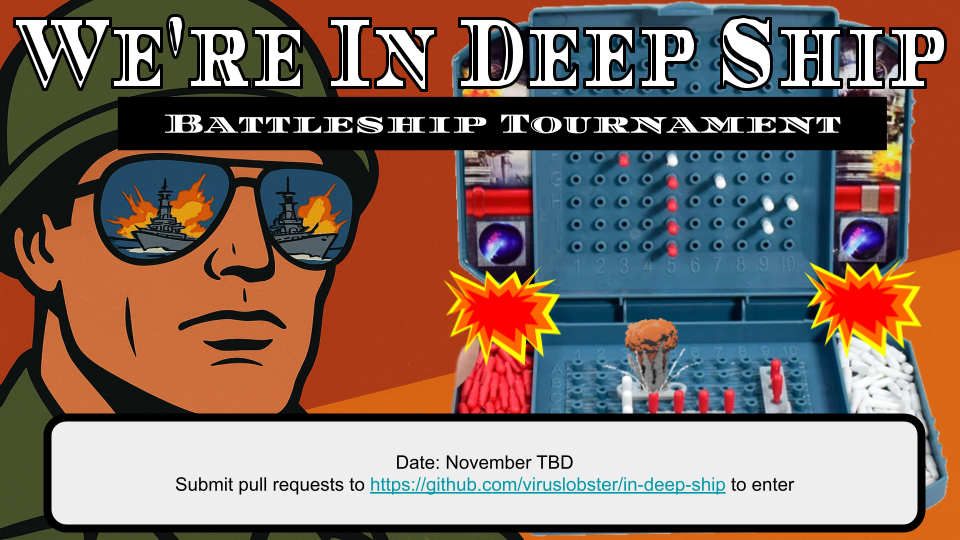
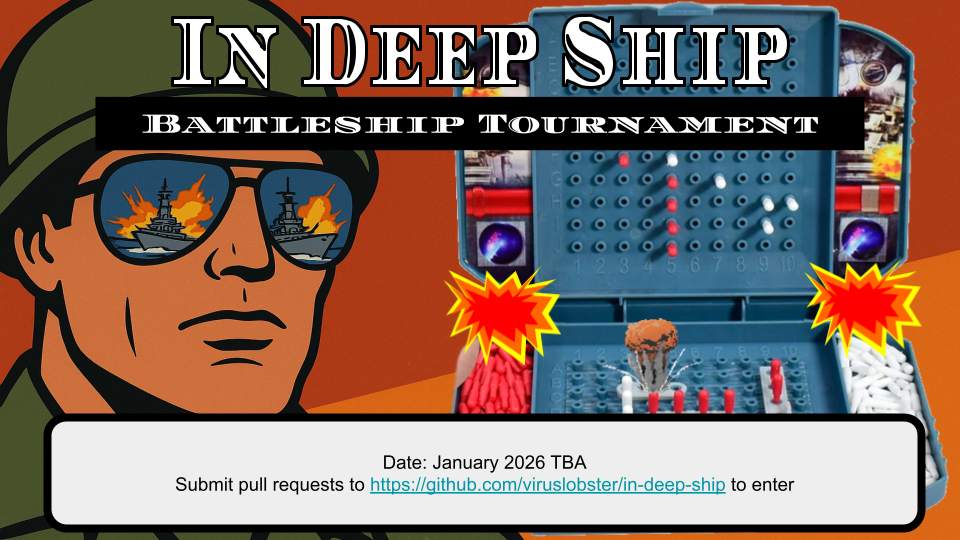
update readme

Changed region(s): [[0.0, 0.0296, 1.0, 0.2963], [0.4062, 0.8296, 0.625, 0.8889]]

diff --git a/README.md b/README.md
@@ -1,25 +1,29 @@
 ![Tournament banner image](assets/banner.png)
-# We're In Deep Ship: Battleship Tournament!
+# In Deep Ship: Battleship Tournament!
 Pit AI's in a battle to the death so they can't take our jobs.
 
-## How to enter
+## How To Enter
 Submit a pull request adding your entry to `entries/`. See the example `entries/random-ralph`.
 Your entry should consist of:
 - A Battleship solution
 - An entry name
-- A 300x300 jpg or png image
-- A short sound effect
+- A 300x300 png image
+- A short mp3 sound effect
 - An entry.zon file, indexing the above info
 
 ## Tournament Rules
 - Every contestant pair will play 1 round of 3 games.
 - Each game gives +10 point for a win -10 for a loss. The contestant with the most points wins the tournament.
-- Contestant programs will be invoked fresh each round.
-- You can use any programming language but no third party libraries (with exceptions).
+- Contestant programs will be created at the beginning of a round (a series of games against the same opponent) and destroyed at the end of that round.
+  - You may collect and use information about an opponent's behavior throughout the round.
+- You can use any programming language but no third party libraries (with some exceptions).
     - You can use numpy and scipy.stats
+    - Reach out to me if you'd like to use a third party library not on this list.
 - All programs will run on the same hardware. Each will be limited to 5GiB of RAM and 2 CPU cores.
-- Programs have 5 seconds start up time and 1 second for each move.
+- Contestants have 3 seconds start up time before each game and 1 second for each move.
     - Each time a program exceeds a time limit it will be penalized 1 point
+- Contestants that make invalid moves (e.g. fire on a square outside the board or place overlapping ships) will be penalized 5 points and be asked to make another move.
+- Contestants that are unresponsive or otherwise determined to be in stuck in a bad state will be restarted. If that fails the contestant may be disqualified.
 
 ## Battleship Rules
 - The game is played on a 9x11 grid.
@@ -30,18 +34,86 @@ Your entry should consist of:
     - Cruiser (3)
     - Submarine (3)
     - Destroyer (2)
-- Players fire on one square per turn. You know if each shot was a hit or miss. You also know if a shot sunk a ship and its size.
+- Players fire on one square per turn. You know if each shot was a hit or miss. If a shot sinks a ship you also get the size of that ship.
 - The first player to sink all the opponent's ships wins the game.
 
 ## Technical Details
-`src/` if this repo contains the Referee, which will be responsible for orchestrating the contestants. Contestant programs will communicate with the Referee over stdin/stdout via a custom text based protocol.
+This repo contains the Simulator which will orchestrate the tournament. The Simulator discovers contestants by reading `entries/$dirname/entry.zon` and creates them by exec-ing the corresponding `runnable`.
 
-Describing the full protocol is a TODO, but messages will be sent from the Referee to a program over stdin and the program will reply by writing to stdout. Here is an example of how it might look:
-| Time | STDIN             | STDOUT      |
+### Protocol Spec
+Contestant programs will communicate with the Simulator by reading input from stdin and writing output to stdout via a custom text based protocol. See the `entries/random-ralph/main.py` for an example implementation of this protocol.
+
+#### **Game Start**
+- Input: `game-start`
+- Output: `game-start`
+
+Sent at the beginning of each new game. Whenever receiving this message the contestant should initialize itself to play a new game. The contestant responds when it is ready.
+
+#### **Place Ships Request**
+- Input: `place-ships`
+- Output: `place-ships;(size;(vertical|horizontal);coord;?)+`
+  - coord = `[A-Z][0-9]+`
+  - size = `[0-9]`
+  - Example: `place-ships;2;horizontal;A9;3;vertical;B4;3;horizontal;C2;4;horizontal;C3;5;horizontal;C4`
+
+Sent after `game-start`; contestants respond with the location of all their ships. In the example the contestant has placed the cruiser (size 2) horizontally with its leftmost coordinate at A9 so that it occupies A9 and A10, the submarine (size 3) vertically with its topmost coordinate at C2 so that it occupies C2, D2 and E2, etc. If the placement is invalid (not all ships placed or ships overlap) then `place-ships` may be sent again.
+
+#### **Take Turn**
+- Input: `take-turn`
+- Output: `take-turn;coord`
+  - coord = `[A-Z][0-9]+`
+  - Example: `take-turn;A0`
+
+Sent at the beginning of a turn. Contestant responds with the cell they fire on (A0).
+
+#### **Turn Result**
+- Input: `turn-result;(you|enemy);coord;(miss|hit|sunk)`
+  - coord = `[A-Z][0-9]+`
+  - size = `[0-9]`
+  - sunk = `sunk;size`
+  - Examples:
+    - `turn-result;you;A0;miss`
+    - `turn-result;you;A0;hit`
+    - `turn-result;you;A0;sunk;5`
+    - `turn-result;enemy;A0;miss`
+    - `turn-result;enemy;A0;hit`
+    - `turn-result;you;A0;sunk;5`
+
+A turn result is sent each time a contestant or their opponent makes a move. You always receive the coordinate that was fired on (A0). When a ship is sunk you receive the size of that ship (5).
+
+#### **Game Result**
+- Input: `(win|lose)`
+  - Examples:
+    - `win`
+    - `lose`
+
+Sent after each game finishes.
+
+### Example Message Timeline
+Here is an example timeline of messages from the perspective of a contestant
+| Message Number | STDIN (read from)             | STDOUT (written to)      |
 | -----| ----------------- | ----------- |
-| 0    | round-start       | round-start |
-| 1    | game-start        | game-start  |
-| 2    | place-ships       | place-ships;2;horizontal;A9;3;vertical;B4;3;horizontal;C2;4;horizontal;C3;5;horizontal;C4 |
-| 3    | turn              | turn;B4     |
-| 5    | result;you;hit;B4 | [no-reply]  |
-| 6    | result;enemy;miss;C9 | [no-reply] |
+| 0    | game-start        |   |
+| 1    | place-ships       | place-ships;2;horizontal;A9;3;vertical;B4;3;horizontal;C2;4;horizontal;C3;5;horizontal;C4 |
+| 2    | take-turn              | take-turn;B4     |
+| 3    | turn-result;you;B4;hit |   |
+| 4    | turn-result;enemy;C9;miss |  |
+| ...  | ... | ... |
+| 30   | win | |
+| 31   | game-start |
+| 32    | place-ships       | place-ships;2;horizontal;A9;3;vertical;B4;3;horizontal;C2;4;horizontal;C3;5;horizontal;C4 |
+| ... | ... | ... |
+
+## FAQ
+### When is the tournament?
+We'll pick a date in mid to late January of 2026 after the new year.
+### Who will compile the contestant programs?
+You can leave that to me. Just create a pull request with your source the week before the tournament date and I will ensure I can compile and run your program. I'm running x86_64 Fedora 42.
+### I'm using Python, should I use a virtualenv?
+Yeah, otherwise we run the risk of my machine not having the right version of things. Try out [uv](https://docs.astral.sh/uv/).
+### Can I declare my dependencies with nix?
+Yes!
+### What should I put for the runnable?
+`cd entries/$ENTRY && ./$RUNNABLE` should start your program. If you're using a compiled language RUNNABLE should be where the final binary will be once compiled with `make`, `cargo build`, `zig build`, `go build`, etc. If you're using an interpreted language add a line like `#!/usr/bin/env python3` at the top of your main file and give it permission to run with `chmod +x $RUNNABLE`.
+### How should I log?
+Since you will be communicating with the simulator over stdout, log to stderr. Logs for the simulator and all contestants will be saved and available after the tournament.
